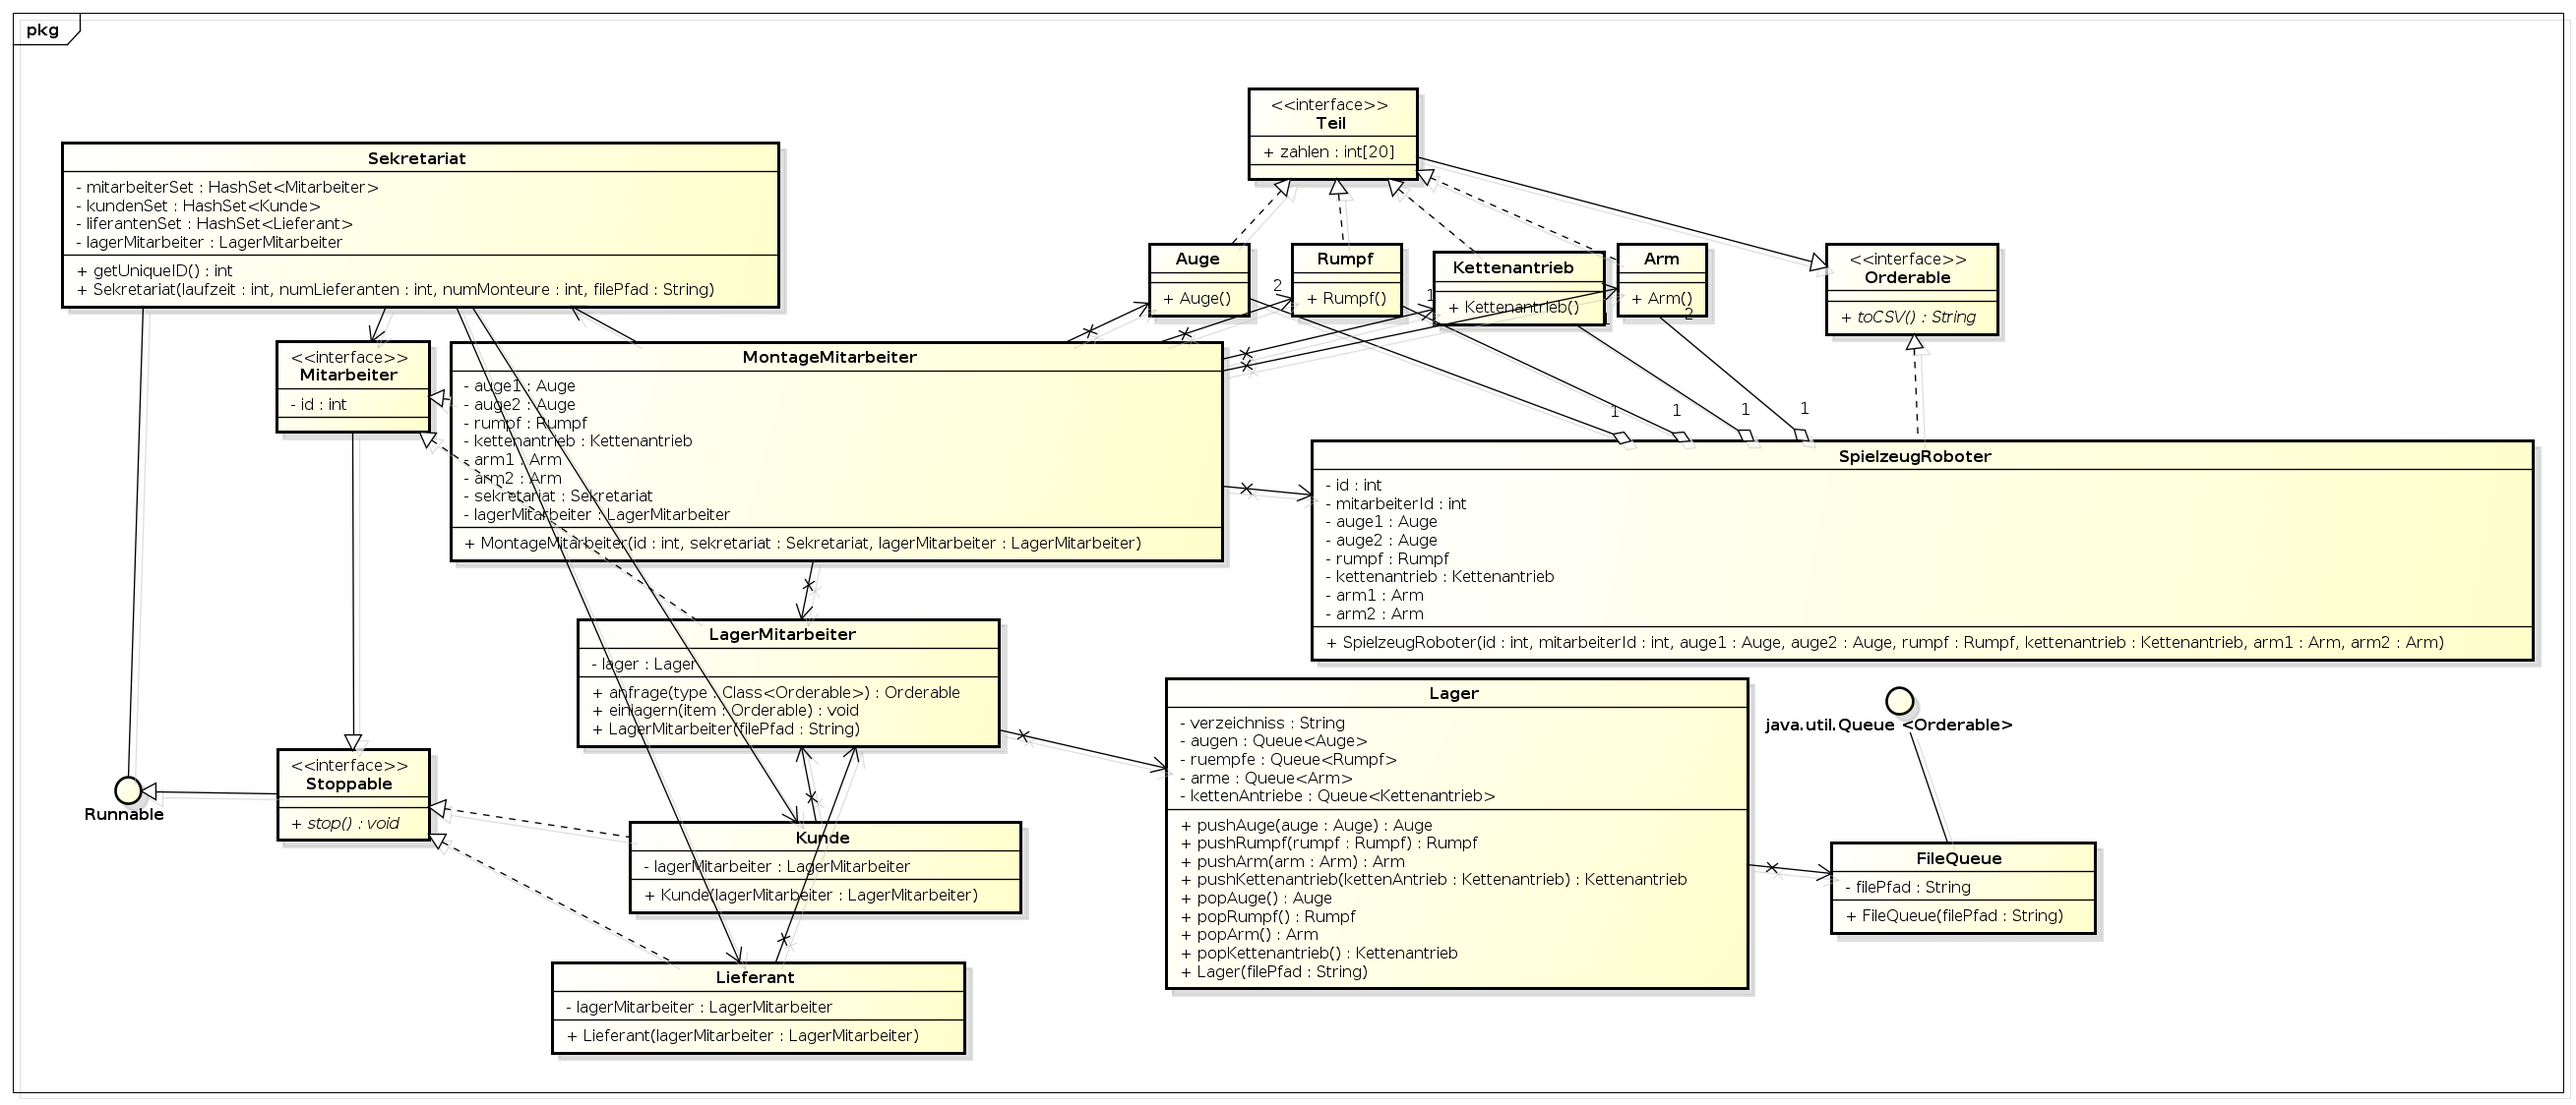
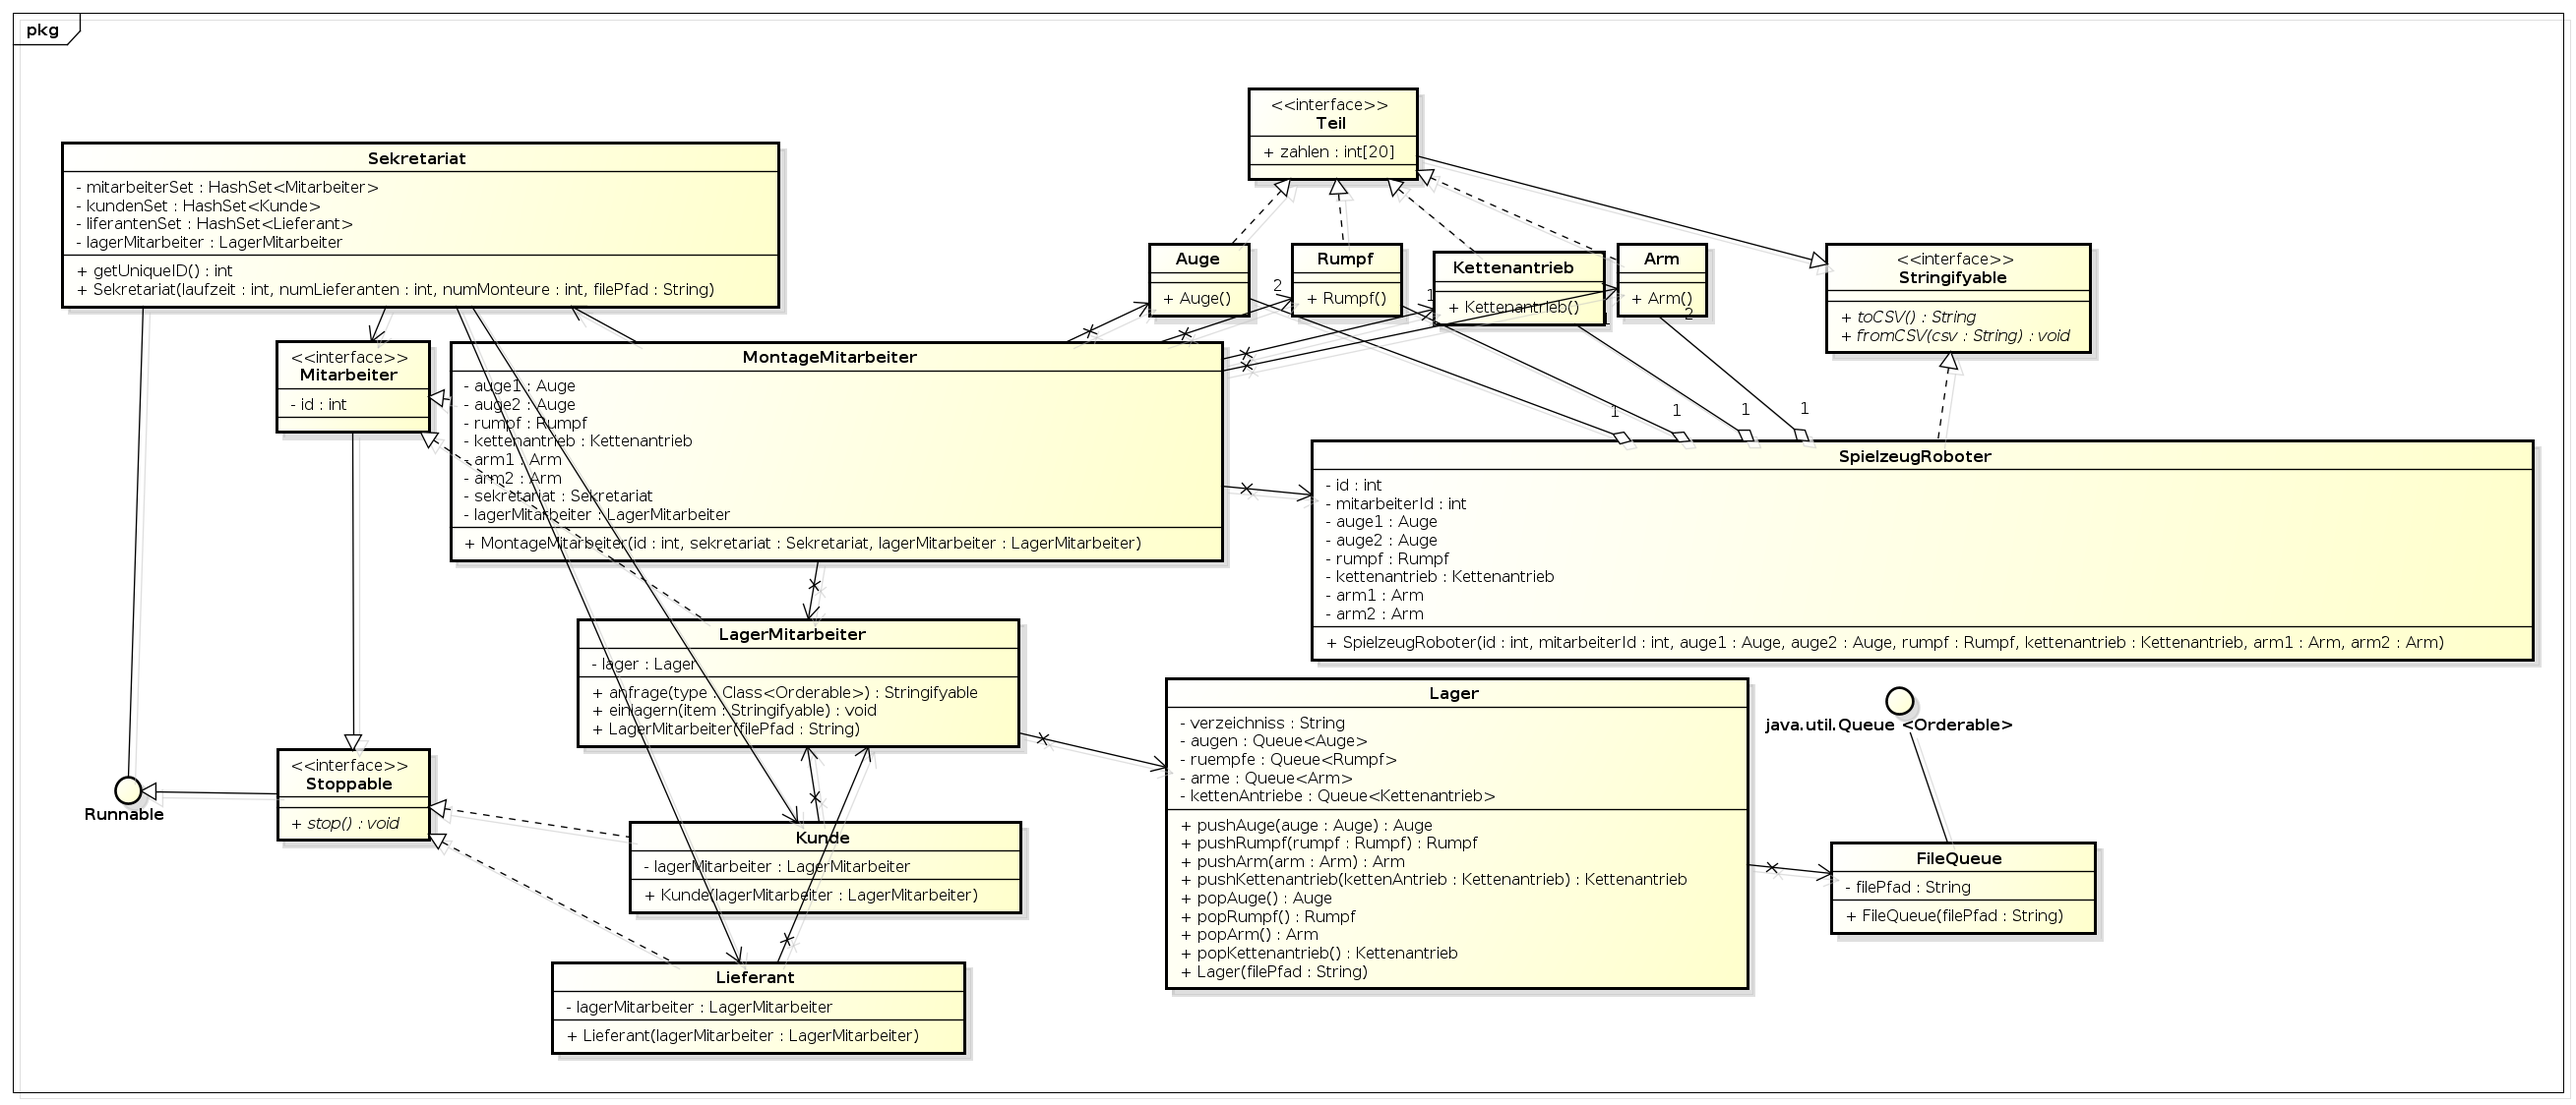
Orderable in Stringify umbenannt, build.xml erweitert

diff --git a/src/tgm/sew/roboterfabrik/MontageMitarbeiter.java b/src/tgm/sew/roboterfabrik/MontageMitarbeiter.java
@@ -50,7 +50,7 @@ public class MontageMitarbeiter implements Mitarbeiter {
 		while(true){
 			//toDO: Holt sich die Teile vom Lagermitarbeiter
 			for(int i = 0;i<20;i++){
-				for(int ii = 1;ii<21;ii++){
+				for(int ii = 1;ii<21;ii++){      /*todo
 					if(arm1.zahlen[i]>arm1.zahlen[ii]){
 						speicher = arm1.zahlen[i];
 						arm1.zahlen[i]=arm1.zahlen[ii];
@@ -80,7 +80,7 @@ public class MontageMitarbeiter implements Mitarbeiter {
 						speicher = rumpf.zahlen[i];
 						rumpf.zahlen[i]=rumpf.zahlen[ii];
 						rumpf.zahlen[ii]=speicher;
-					}
+					}*/
 				}
 			}
 			id = sekretariat.getUniqueID();

diff --git a/src/tgm/sew/roboterfabrik/Arm.java b/src/tgm/sew/roboterfabrik/Arm.java
@@ -7,7 +7,7 @@ public class Arm implements Teil {
 	private int [] zahlen;
 
 	/**
-	 * F�llt zahlen mit Zufallszahlen
+	 * Fuellt zahlen mit Zufallszahlen
 	 */
 	public Arm() {
 		name = "Arm";
@@ -20,6 +20,12 @@ public class Arm implements Teil {
     @Override
     public String toCSV() {
         return null;  //To change body of implemented methods use File | Settings | File Templates.
+    }
+
+    @Override
+    public void fromCSV(String csv)
+    {
+        //To change body of implemented methods use File | Settings | File Templates.
     }
 
     /**

diff --git a/src/tgm/sew/roboterfabrik/SpielzeugRoboter.java b/src/tgm/sew/roboterfabrik/SpielzeugRoboter.java
@@ -1,5 +1,5 @@
 package tgm.sew.roboterfabrik;
-public class SpielzeugRoboter implements Orderable {
+public class SpielzeugRoboter implements Stringifyable {
 
 	private String id;
 
@@ -32,10 +32,16 @@ public class SpielzeugRoboter implements Orderable {
 
 
 	/**
-	 * @see Orderable#toCSV()
+	 * @see Stringifyable#toCSV()
 	 */
 	public String toCSV() {
 		return null;
 	}
+
+    @Override
+    public void fromCSV(String csv)
+    {
+        //To change body of implemented methods use File | Settings | File Templates.
+    }
 
 }

diff --git a/src/tgm/sew/roboterfabrik/Lager.java b/src/tgm/sew/roboterfabrik/Lager.java
@@ -1,19 +1,20 @@
 package tgm.sew.roboterfabrik;
+import java.util.Queue;
 import java.util.Stack;
 
 public class Lager {
 
 	private String verzeichniss;
 
-	private Stack augen;
+	private Queue<Auge> augen;
 
-	private Stack ruempfe;
+	private Queue<Rumpf> ruempfe;
 
-	private Stack arme;
+	private Queue<Arm> arme;
 
-	private Stack kettenAntriebe;
+	private Queue<Kettenantrieb> kettenAntriebe;
 
-	private FileStack fileStack;
+	private Queue<SpielzeugRoboter> threadees;
 
 	public Auge pushAuge(Auge auge) {
 		return null;

diff --git a/src/tgm/sew/roboterfabrik/Kettenantrieb.java b/src/tgm/sew/roboterfabrik/Kettenantrieb.java
@@ -23,6 +23,12 @@ public class Kettenantrieb implements Teil {
         return null;  //To change body of implemented methods use File | Settings | File Templates.
     }
 
+    @Override
+    public void fromCSV(String csv)
+    {
+        //To change body of implemented methods use File | Settings | File Templates.
+    }
+
     /**
      * Zuffalszahlen um dem Montagemitarbeiter Arbeit zu bereiten
      */

diff --git a/src/tgm/sew/roboterfabrik/Rumpf.java b/src/tgm/sew/roboterfabrik/Rumpf.java
@@ -23,6 +23,12 @@ public class Rumpf implements Teil {
         return null;  //To change body of implemented methods use File | Settings | File Templates.
     }
 
+    @Override
+    public void fromCSV(String csv)
+    {
+        //To change body of implemented methods use File | Settings | File Templates.
+    }
+
     /**
      * Zuffalszahlen um dem Montagemitarbeiter Arbeit zu bereiten
      */

diff --git a/src/tgm/sew/roboterfabrik/Auge.java b/src/tgm/sew/roboterfabrik/Auge.java
@@ -23,6 +23,12 @@ public class Auge implements Teil {
         return null;  //To change body of implemented methods use File | Settings | File Templates.
     }
 
+    @Override
+    public void fromCSV(String csv)
+    {
+        //To change body of implemented methods use File | Settings | File Templates.
+    }
+
     /**
      * Zuffalszahlen um dem Montagemitarbeiter Arbeit zu bereiten
      */

diff --git a/src/tgm/sew/roboterfabrik/FileQueue.java b/src/tgm/sew/roboterfabrik/FileQueue.java
@@ -10,7 +10,7 @@ import java.util.Queue;
  * Elemente direkt in einer Datei gespeichert sind.
  * Funktioniert nur mit Elementen des Typ Orderable
  */
-public class FileQueue <E extends Orderable> implements Queue<E> {
+public class FileQueue <E extends Stringifyable> implements Queue<E> {
 
 	private String filePfad;
 

diff --git a/src/tgm/sew/roboterfabrik/LagerMitarbeiter.java b/src/tgm/sew/roboterfabrik/LagerMitarbeiter.java
@@ -9,11 +9,11 @@ public class LagerMitarbeiter implements Mitarbeiter {
 
 	private int id;
 
-	public Orderable anfrage(Class type) {
+	public Stringifyable anfrage(Class type) {
 		return null;
 	}
 
-	public void einlagern(Orderable item) {
+	public void einlagern(Stringifyable item) {
 
 	}
 

diff --git a/src/tgm/sew/roboterfabrik/Teil.java b/src/tgm/sew/roboterfabrik/Teil.java
@@ -1,6 +1,6 @@
 package tgm.sew.roboterfabrik;
 
-public interface Teil extends Orderable {
+public interface Teil extends Stringifyable {
 
 	/** Zuffalszahlen um dem Montagemitarbeiter Arbeit zu bereiten */
 	public int[] getZahlen();

diff --git a/src/tgm/sew/roboterfabrik/Stringifyable.java b/src/tgm/sew/roboterfabrik/Stringifyable.java
@@ -1,0 +1,5 @@
+package tgm.sew.roboterfabrik;
+public interface Stringifyable {
+	public String toCSV();
+    public void fromCSV(String csv);
+}
